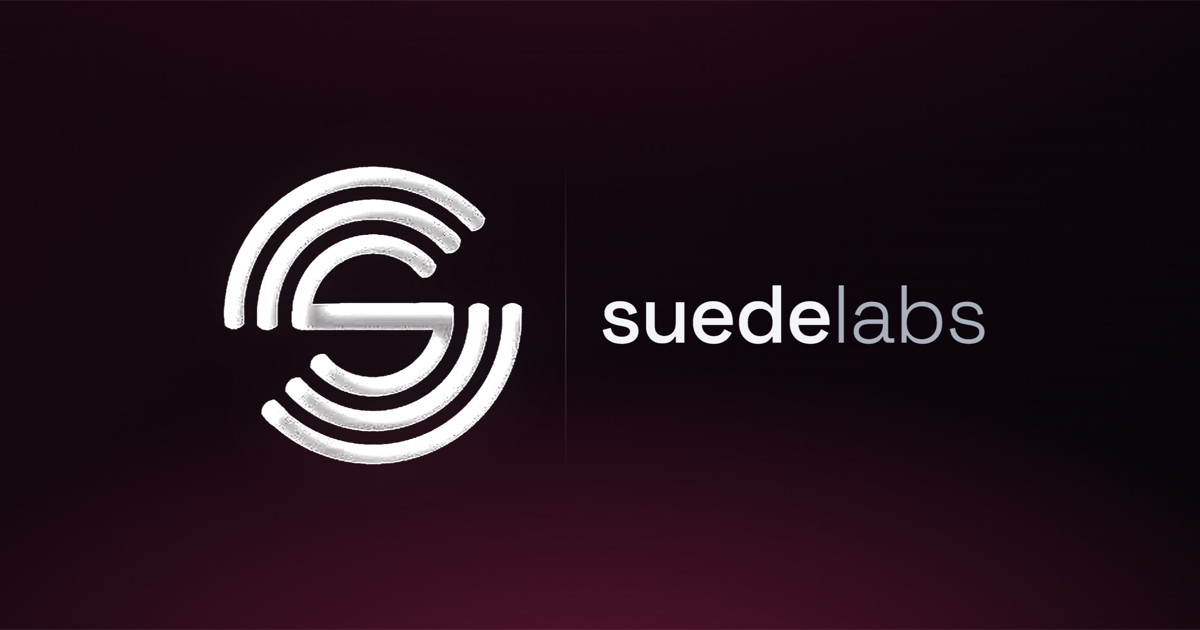
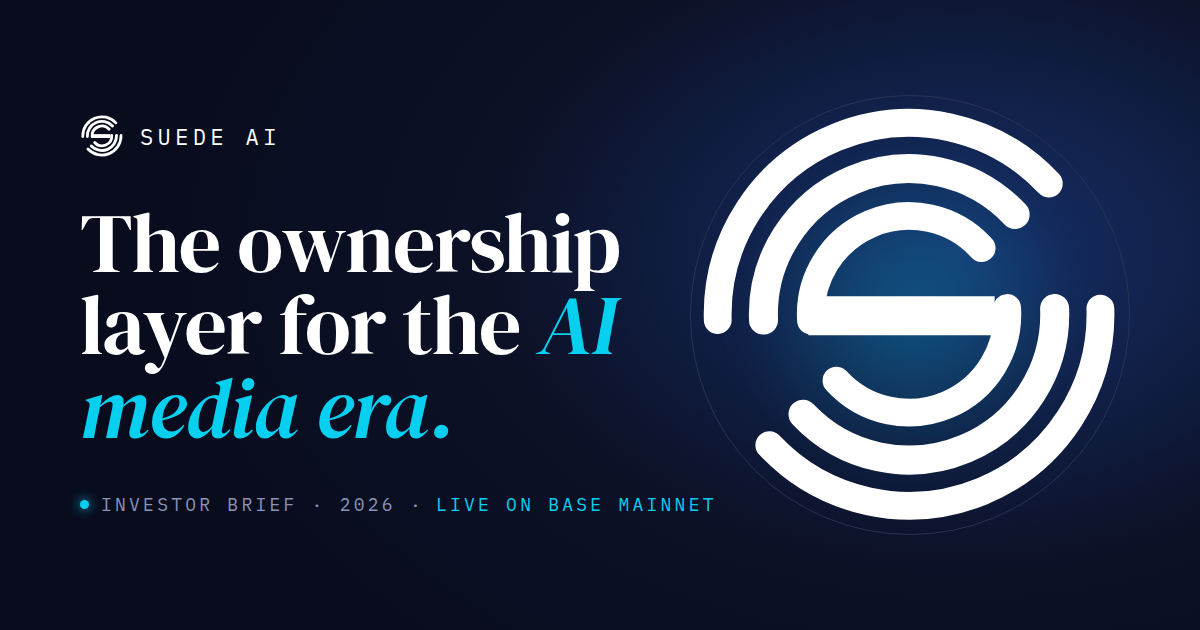
Rename the deck to Suede AI (#8)
- Replace "Suede Labs AI" with "Suede AI" across the visible copy,
  title, Open Graph and X tags, JSON-LD and README
- Keep "Suede Labs AI" as a keyword and as JSON-LD alternateName so
  searches for the old name still find the deck
- Point the JSON-LD logo at the S-mark instead of the suedelabs wordmark
- Replace the link-preview image, which read "suedelabs", with a
  Suede AI card in the deck's Navy + Cyan style
- "Producer by Suede Labs" stays: it is the listed name of the
  Virtuals agent

Claude-Session: https://claude.ai/code/session_01WirP5iE6FdAbunLSemFoZX

diff --git a/index.html b/index.html
@@ -3,9 +3,9 @@
 <head>
 <meta charset="utf-8">
 <meta name="viewport" content="width=device-width, initial-scale=1">
-<title>Suede Labs AI — Investor Brief</title>
-<meta name="description" content="Suede Labs AI is building the agent-native rights layer for the AI media era — programmable IP, on-chain royalty routing, and x402 agent commerce. Live on Base mainnet.">
-<meta name="keywords" content="Suede Labs AI, investor brief, programmable IP, creator ownership, AI media, on-chain royalties, x402, ERC-8004, Base mainnet, agent commerce, rights layer, creator economy, Jason Colapietro, startup pitch deck">
+<title>Suede AI — Investor Brief</title>
+<meta name="description" content="Suede AI is building the agent-native rights layer for the AI media era — programmable IP, on-chain royalty routing, and x402 agent commerce. Live on Base mainnet.">
+<meta name="keywords" content="Suede AI, Suede Labs AI, investor brief, programmable IP, creator ownership, AI media, on-chain royalties, x402, ERC-8004, Base mainnet, agent commerce, rights layer, creator economy, Jason Colapietro, startup pitch deck">
 <meta name="author" content="Jason Colapietro">
 <meta name="robots" content="index, follow, max-image-preview:large, max-snippet:-1, max-video-preview:-1">
 <meta name="theme-color" content="#0c1127">
@@ -18,22 +18,22 @@
 <meta property="og:type" content="website">
 <meta property="og:locale" content="en_US">
 <meta property="og:url" content="https://jasoncolapietro.github.io/suede-investor-deck/">
-<meta property="og:site_name" content="Suede Labs AI">
-<meta property="og:title" content="Suede Labs AI — The Ownership Layer for the AI Media Era">
-<meta property="og:description" content="Programmable IP, on-chain royalty routing, and x402 agent commerce. Suede Labs AI is the agent-native rights layer — live on Base mainnet. 2026 investor brief.">
+<meta property="og:site_name" content="Suede AI">
+<meta property="og:title" content="Suede AI — The Ownership Layer for the AI Media Era">
+<meta property="og:description" content="Programmable IP, on-chain royalty routing, and x402 agent commerce. Suede AI is the agent-native rights layer — live on Base mainnet. 2026 investor brief.">
 <meta property="og:image" content="https://jasoncolapietro.github.io/suede-investor-deck/assets/og-image.png">
 <meta property="og:image:width" content="1200">
 <meta property="og:image:height" content="630">
-<meta property="og:image:alt" content="Suede Labs AI — The ownership layer for the AI media era">
+<meta property="og:image:alt" content="Suede AI — The ownership layer for the AI media era">
 
 <!-- Twitter / X -->
 <meta name="twitter:card" content="summary_large_image">
 <meta name="twitter:site" content="@AISUEDE">
 <meta name="twitter:creator" content="@johnnysuede">
-<meta name="twitter:title" content="Suede Labs AI — The Ownership Layer for the AI Media Era">
+<meta name="twitter:title" content="Suede AI — The Ownership Layer for the AI Media Era">
 <meta name="twitter:description" content="Programmable IP, on-chain royalty routing, and x402 agent commerce. Live on Base mainnet. 2026 investor brief.">
 <meta name="twitter:image" content="https://jasoncolapietro.github.io/suede-investor-deck/assets/og-image.png">
-<meta name="twitter:image:alt" content="Suede Labs AI — The ownership layer for the AI media era">
+<meta name="twitter:image:alt" content="Suede AI — The ownership layer for the AI media era">
 <link rel="preconnect" href="https://fonts.googleapis.com">
 <link rel="preconnect" href="https://fonts.gstatic.com" crossorigin>
 <link href="https://fonts.googleapis.com/css2?family=DM+Serif+Display:ital@0;1&family=IBM+Plex+Mono:wght@400;500;600&family=IBM+Plex+Sans:ital,wght@0,400;0,500;0,600;0,700;1,400&display=swap" rel="stylesheet">
@@ -371,7 +371,7 @@ a:focus-visible,button:focus-visible,.cta:focus-visible{outline:2px solid var(--
 
 <div class="prog" id="prog"></div>
 <header class="bar">
-  <a class="brand" href="#s1" aria-label="Suede Labs AI, back to cover"><svg aria-hidden="true"><use href="#smark"/></svg>SUEDE LABS AI <span class="dim">/ INVESTOR BRIEF</span></a>
+  <a class="brand" href="#s1" aria-label="Suede AI, back to cover"><svg aria-hidden="true"><use href="#smark"/></svg>SUEDE AI <span class="dim">/ INVESTOR BRIEF</span></a>
   <span class="meta">2026 · <b>Base mainnet</b></span>
 </header>
 <nav class="dots" id="dots" aria-label="Slides"></nav>
@@ -389,7 +389,7 @@ a:focus-visible,button:focus-visible,.cta:focus-visible{outline:2px solid var(--
       <div>
         <p class="eyebrow rv">Investor brief · 2026</p>
         <h1 class="rv" style="--d:1">The ownership layer for the <em>AI media era.</em></h1>
-        <p class="sub rv" style="--d:2">Suede Labs AI is the agent-native rights layer: proof of creation, programmable IP and on-chain royalty routing that autonomous agents can pay through.</p>
+        <p class="sub rv" style="--d:2">Suede AI is the agent-native rights layer: proof of creation, programmable IP and on-chain royalty routing that autonomous agents can pay through.</p>
         <div class="cover-meta rv" style="--d:3">
           <div>Founder &amp; CEO<b>Jason Colapietro · Johnny Suede</b></div>
           <div>Stage<b>Proof of execution, on-chain</b></div>
@@ -547,7 +547,7 @@ a:focus-visible,button:focus-visible,.cta:focus-visible{outline:2px solid var(--
         <li><strong>Live:</strong> ERC-8004 identity, reputation &amp; validation on Base mainnet. Agents pay per call in USDC.</li>
         <li><strong>Producer by Suede Labs:</strong> a hireable Virtuals ACP agent for music, video &amp; ACP/x402 consulting.</li>
         <li>Every contract &amp; transaction is public and verifiable on Base mainnet. <strong>Proof without trust.</strong></li>
-        <li>Suede Labs AI was ranked the <strong>#1 Overall Music Platform</strong> by AI Agents Directory.</li>
+        <li>Suede AI was ranked the <strong>#1 Overall Music Platform</strong> by AI Agents Directory.</li>
         <li>Suede AI Agent Studio and the Suede music/video x402 API are both listed in the community-curated <strong>awesome-x402</strong> repository.</li>
       </ul>
     </div>
@@ -619,13 +619,13 @@ a:focus-visible,button:focus-visible,.cta:focus-visible{outline:2px solid var(--
   <section class="slide alt" id="s11" data-title="Founder">
     <div class="wrap two flip">
       <figure class="portrait rv">
-        <img src="assets/founder.png" alt="Jason Colapietro, Founder and CEO of Suede Labs AI" width="1060" height="1484" loading="lazy" decoding="async">
+        <img src="assets/founder.png" alt="Jason Colapietro, Founder and CEO of Suede AI" width="1060" height="1484" loading="lazy" decoding="async">
         <figcaption><b>Jason Colapietro</b>Founder &amp; CEO · "Johnny Suede"</figcaption>
       </figure>
       <div>
         <p class="eyebrow rv"><span class="ix">10</span> Founder</p>
         <h2 class="rv" style="--d:1">Jason <em>Colapietro</em></h2>
-        <p class="lede rv" style="--d:2"><strong>Founder &amp; CEO, Suede Labs AI</strong> · "Johnny Suede." Published author of three books; solo operator behind the shipped Suede ecosystem.</p>
+        <p class="lede rv" style="--d:2"><strong>Founder &amp; CEO, Suede AI</strong> · "Johnny Suede." Published author of three books; solo operator behind the shipped Suede ecosystem.</p>
         <p class="pull rv" style="--d:3">"The internet upgraded access. AI upgraded creation. <em>The next layer has to upgrade ownership.</em>"</p>
         <div class="book rv" style="--d:4">
           <img src="assets/book.jpg" alt="Stake Your Claim book cover" width="1600" height="2400" loading="lazy" decoding="async">
@@ -640,7 +640,7 @@ a:focus-visible,button:focus-visible,.cta:focus-visible{outline:2px solid var(--
     <div class="wrap">
       <p class="eyebrow rv"><span class="ix">11</span> The ask</p>
       <h2 class="rv" style="--d:1">Raising to deepen the rails and <em>scale what already ships.</em></h2>
-      <p class="lede rv" style="--d:2">Round size, instrument and terms shared directly. Book an intro call below. Suede Labs AI is an early-stage company building the programmable-IP and creator-ownership layer for the AI media era.</p>
+      <p class="lede rv" style="--d:2">Round size, instrument and terms shared directly. Book an intro call below. Suede AI is an early-stage company building the programmable-IP and creator-ownership layer for the AI media era.</p>
       <div class="grid-cards g3">
         <div class="card rv" style="--d:3"><span class="num">01</span><span class="tag">Use of funds</span><h3>Engineering</h3><p>Ownership &amp; settlement rails: registry, proof, royalty routing.</p></div>
         <div class="card rv" style="--d:4"><span class="num">02</span><span class="tag">Use of funds</span><h3>Distribution</h3><p>Creator &amp; agent acquisition across the shipped surfaces.</p></div>
@@ -671,7 +671,7 @@ a:focus-visible,button:focus-visible,.cta:focus-visible{outline:2px solid var(--
         </tbody>
       </table>
       <p class="note rv" style="--d:3">Suede on-chain proof verifiable at app.suedeai.ai/.well-known/x402.json &amp; Base mainnet (ERC-8004).</p>
-      <div class="closer rv" style="--d:4"><svg aria-hidden="true"><use href="#smark"/></svg>Suede Labs AI · The ownership layer for the AI media era</div>
+      <div class="closer rv" style="--d:4"><svg aria-hidden="true"><use href="#smark"/></svg>Suede AI · The ownership layer for the AI media era</div>
     </div>
   </section>
 
@@ -740,17 +740,18 @@ a:focus-visible,button:focus-visible,.cta:focus-visible{outline:2px solid var(--
 {
   "@context": "https://schema.org",
   "@type": "WebPage",
-  "name": "Suede Labs AI — Investor Brief",
+  "name": "Suede AI — Investor Brief",
   "url": "https://jasoncolapietro.github.io/suede-investor-deck/",
-  "description": "Suede Labs AI is building the agent-native rights layer for the AI media era — programmable IP, on-chain royalty routing, and x402 agent commerce. Live on Base mainnet.",
+  "description": "Suede AI is building the agent-native rights layer for the AI media era — programmable IP, on-chain royalty routing, and x402 agent commerce. Live on Base mainnet.",
   "inLanguage": "en-US",
   "publisher": {
     "@type": "Organization",
-    "name": "Suede Labs AI",
+    "name": "Suede AI",
+    "alternateName": "Suede Labs AI",
     "url": "https://suedeai.ai",
     "logo": {
       "@type": "ImageObject",
-      "url": "https://jasoncolapietro.github.io/suede-investor-deck/assets/wordmark.png"
+      "url": "https://jasoncolapietro.github.io/suede-investor-deck/assets/mark.png"
     },
     "sameAs": [
       "https://x.com/AISUEDE",
@@ -766,7 +767,7 @@ a:focus-visible,button:focus-visible,.cta:focus-visible{outline:2px solid var(--
     "jobTitle": "Founder & CEO",
     "worksFor": {
       "@type": "Organization",
-      "name": "Suede Labs AI"
+      "name": "Suede AI"
     }
   },
   "about": {
@@ -779,7 +780,7 @@ a:focus-visible,button:focus-visible,.cta:focus-visible{outline:2px solid var(--
       {
         "@type": "ListItem",
         "position": 1,
-        "name": "Suede Labs AI",
+        "name": "Suede AI",
         "item": "https://suedeai.ai"
       },
       {

diff --git a/README.md b/README.md
@@ -1,4 +1,4 @@
-# Suede Labs AI — Investor Brief
+# Suede AI — Investor Brief
 
 > **By [Jason Colapietro](https://suedeai.ai/founder), Founder & CEO · [suedeai.ai](https://suedeai.ai) · [suedeai.org](https://suedeai.org)**
 
